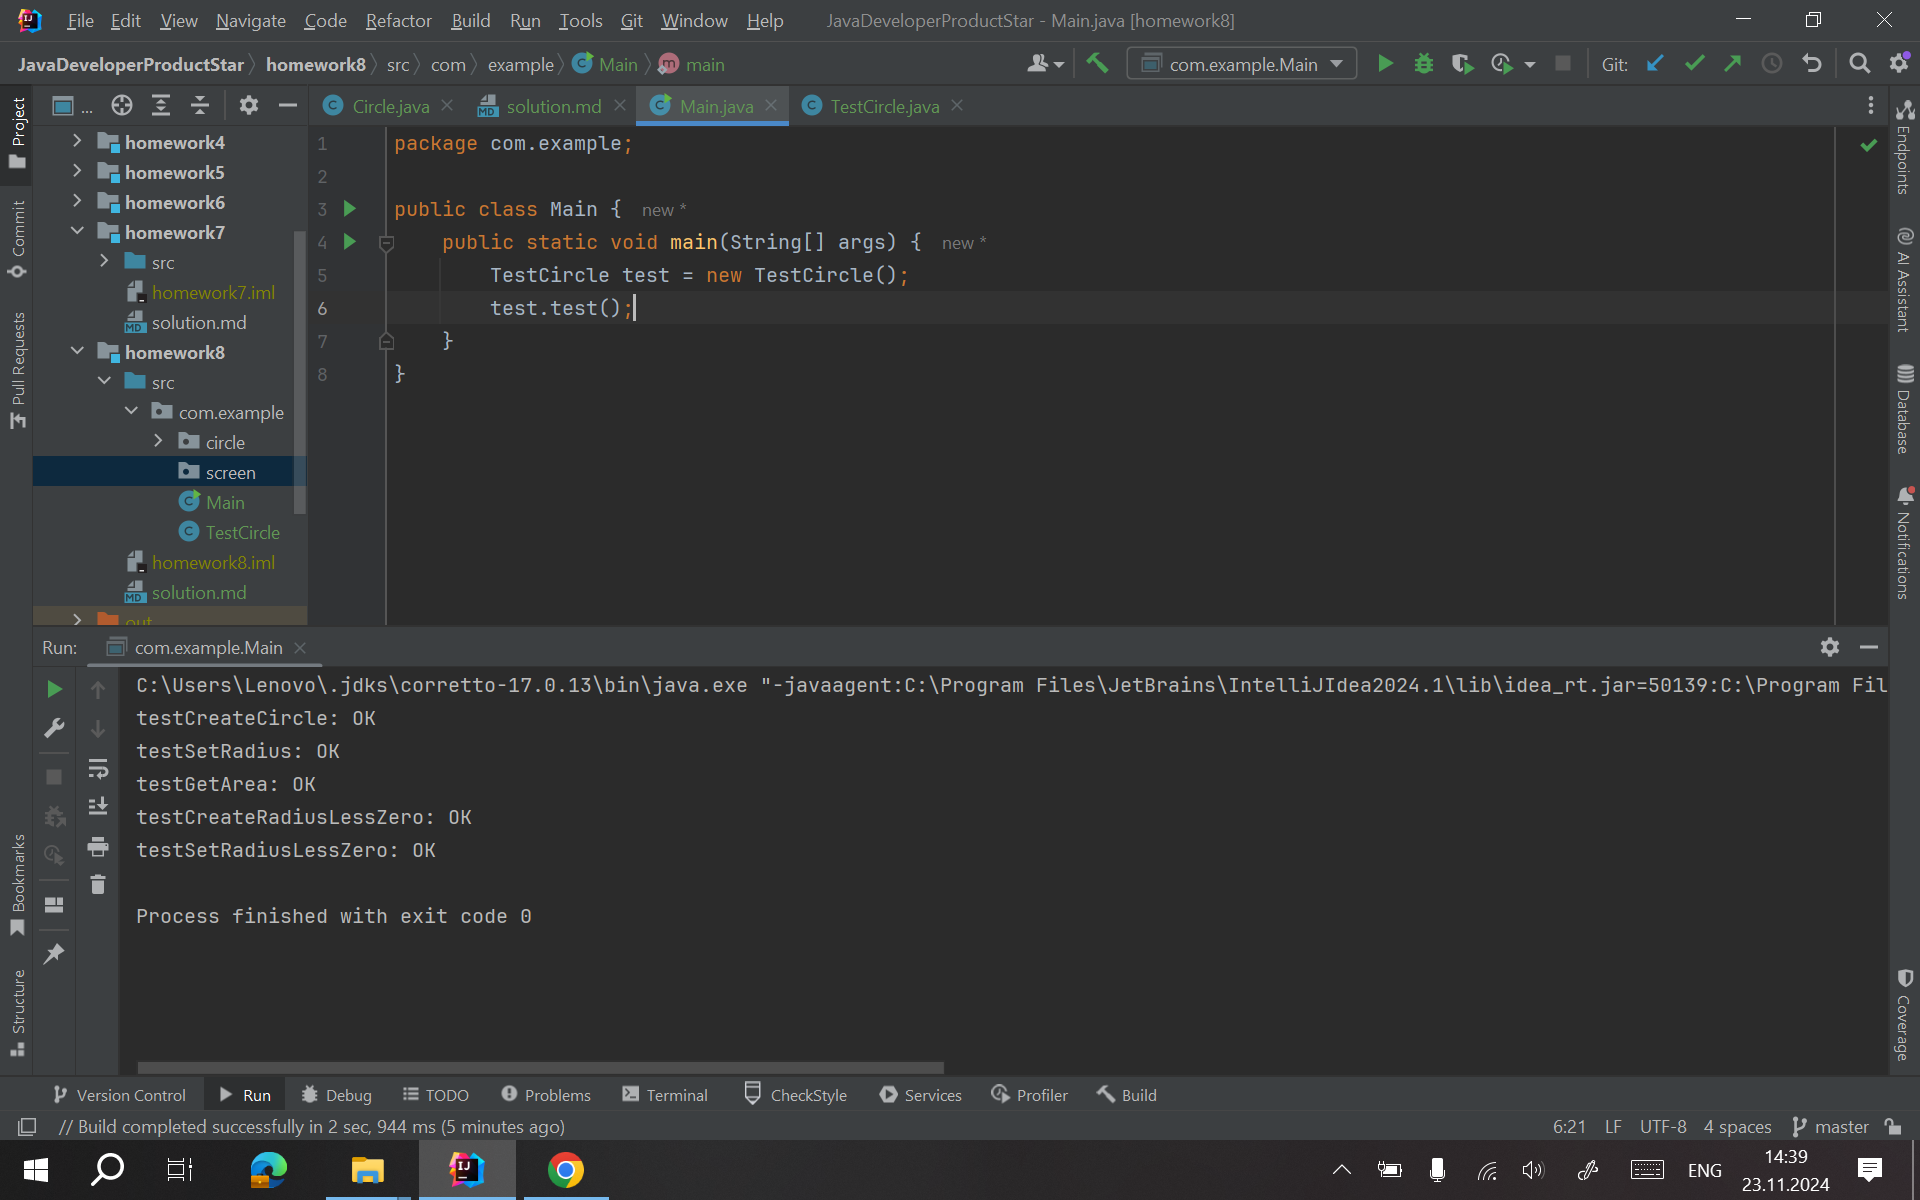
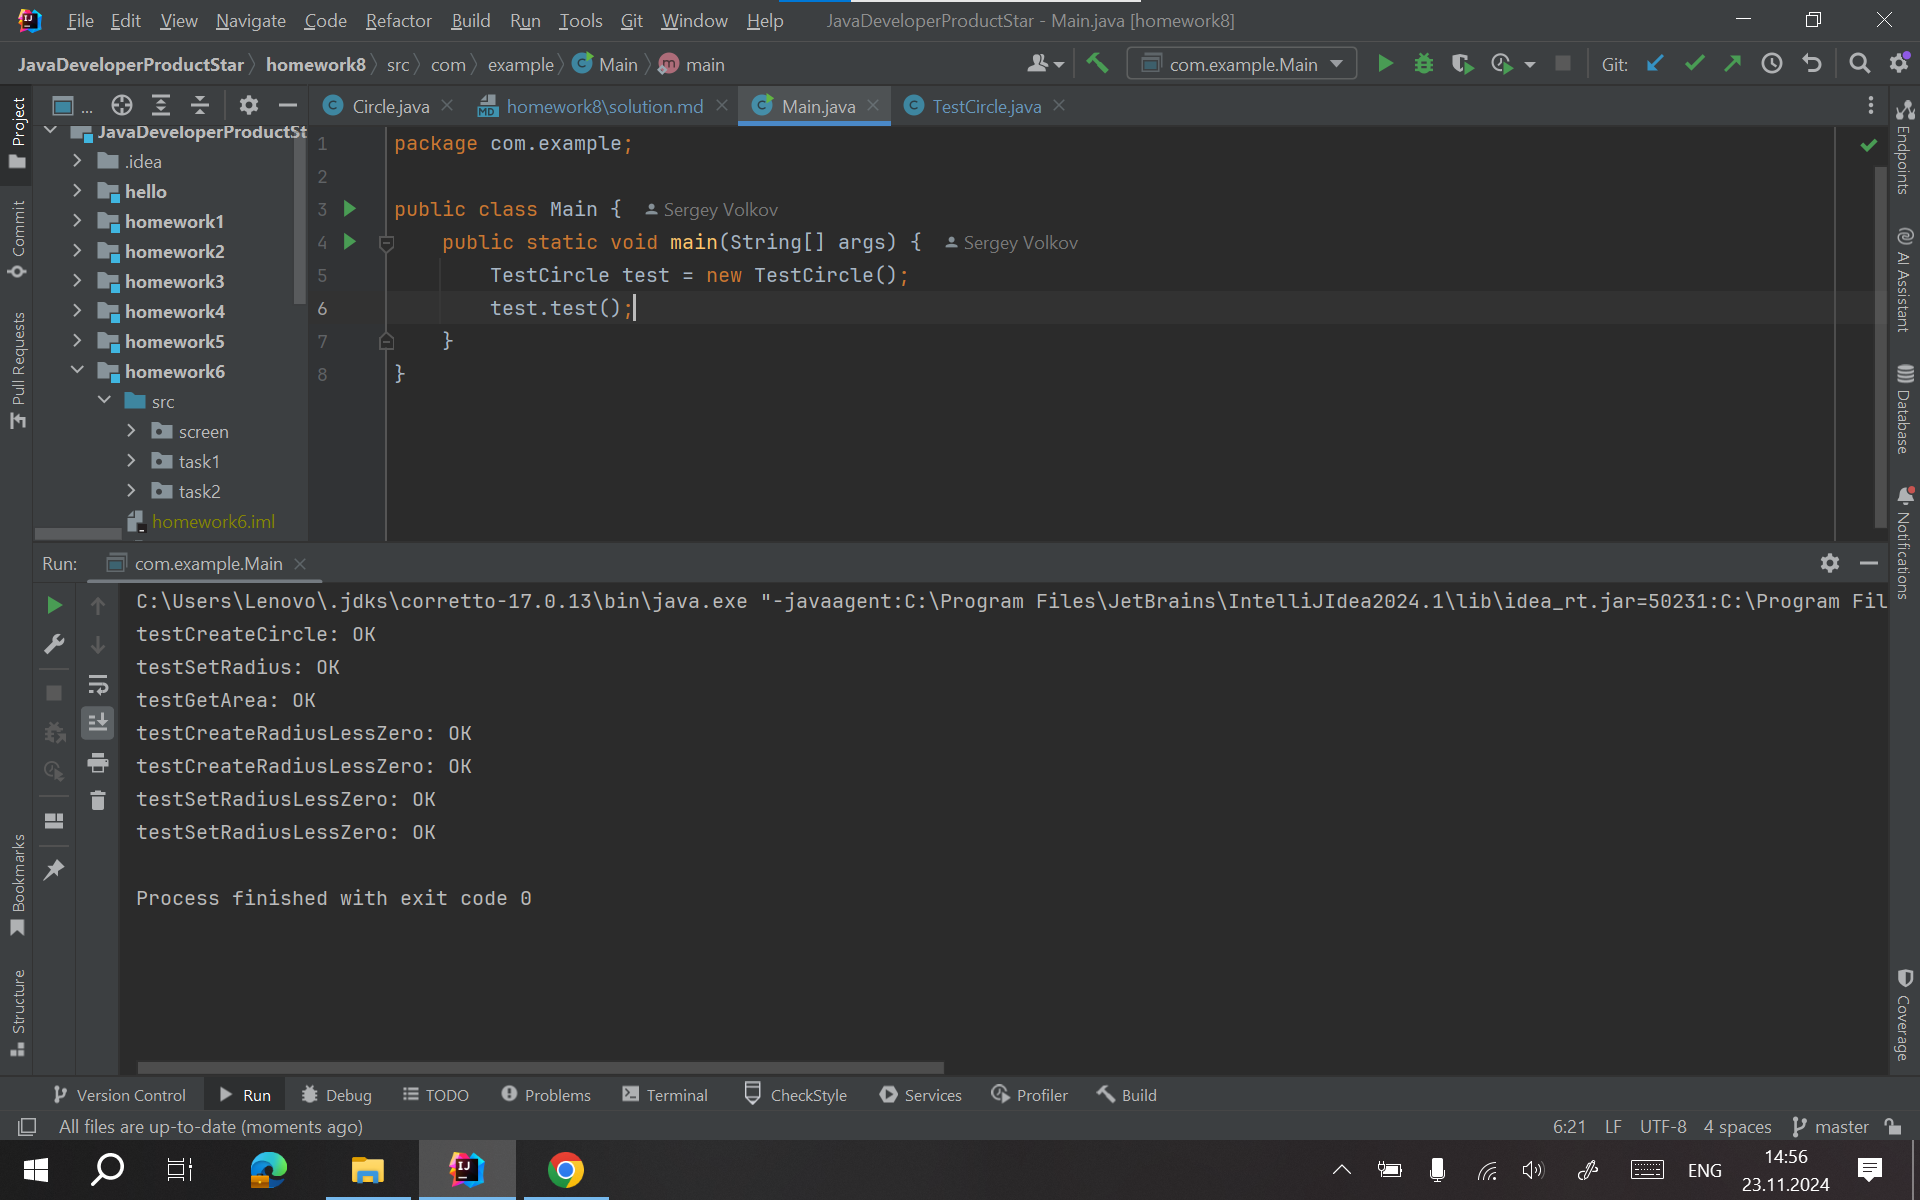
Решение ДЗ№8

diff --git a/homework8/src/com/example/TestCircle.java b/homework8/src/com/example/TestCircle.java
@@ -44,20 +44,27 @@ public class TestCircle {
         }
     }
 
-    private void testCreateRadiusLessZero() {
+    private void testCreateRadiusLessZero(double radius) {
         try {
-            Circle circle = new Circle(-1);
-            System.out.println("testCreateRadiusLessZero: FAILURE");
+            Circle circle = new Circle(radius);
+            if (radius < 0) {
+                System.out.println("testCreateRadiusLessZero: FAILURE");
+                return;
+            }
+            System.out.println("testCreateRadiusLessZero: OK");
         } catch (RuntimeException e) {
             System.out.println("testCreateRadiusLessZero: OK");
         }
     }
 
-    private void testSetRadiusLessZero() {
+    private void testSetRadiusLessZero(double radius, Circle circle) {
         try {
-            Circle circle = new Circle(1);
-            circle.setRadius(-1);
-            System.out.println("testSetRadiusLessZero: FAILURE");
+            circle.setRadius(radius);
+            if (radius < 0) {
+                System.out.println("testSetRadiusLessZero: FAILURE");
+                return;
+            }
+            System.out.println("testSetRadiusLessZero: OK");
         } catch (RuntimeException e) {
             System.out.println("testSetRadiusLessZero: OK");
         }
@@ -67,7 +74,10 @@ public class TestCircle {
         testCreateCircle();
         testSetRadius();
         testGetArea();
-        testCreateRadiusLessZero();
-        testSetRadiusLessZero();
+        testCreateRadiusLessZero(-1);
+        testCreateRadiusLessZero(1);
+        Circle circle = new Circle(1);
+        testSetRadiusLessZero(-1, circle);
+        testSetRadiusLessZero(1, circle);
     }
 }

diff --git a/README.md b/README.md
@@ -491,3 +491,150 @@ Steer the wheel
 
 Process finished with exit code 0
 ```
+## Домашнее задание №8
+### Методы и поля классов
+Скриншот компиляции и работы программы:
+![Скриншот1](https://github.com/SergeyVolko/JavaDeveloper/blob/master/homework8/src/com/example/screen/%D0%94%D0%97%E2%84%968.png?raw=true)<br><br>
+Исходный код класса Circle:
+```java
+package com.example.circle;
+
+/**
+ * Заполните этот класс в соответсвии с заданием из лекции.
+ */
+public class Circle {
+    private double radius;
+
+    public Circle(double radius) {
+        checkingRadius(radius);
+        this.radius = radius;
+    }
+
+    public double getRadius() {
+        return radius;
+    }
+
+    public void setRadius(double radius) {
+        checkingRadius(radius);
+        this.radius = radius;
+    }
+
+    public double getArea() {
+        return Math.PI * radius * radius;
+    }
+
+    private void checkingRadius(double radius) {
+        if (radius < 0) {
+            throw new RuntimeException("Radius less than zero");
+        }
+    }
+}
+```
+Исходный код класса Main:
+```java
+package com.example;
+
+public class Main {
+    public static void main(String[] args) {
+        TestCircle test = new TestCircle();
+        test.test();
+    }
+}
+```
+Исходный код класса TestCircle:
+```java
+package com.example;
+
+import com.example.circle.Circle;
+
+public class TestCircle {
+
+    private final double EPSILON = 0.00001;
+
+    private boolean compareDouble(double a, double b) {
+        return Math.abs(a - b) < EPSILON;
+    }
+
+    private void testCreateCircle() {
+        Circle circle = new Circle(10);
+        double radius = circle.getRadius();
+        if (compareDouble(radius, 10.0)) {
+            System.out.println("testCreateCircle: OK");
+        } else {
+            System.out.println("testCreateCircle: FAILURE");
+        }
+    }
+
+    private void testSetRadius() {
+        Circle circle = new Circle(1);
+        if (!compareDouble(circle.getRadius(), 1)) {
+            System.out.println("testSetRadius: FAILURE: expected getRadius() = 1, got " + circle.getRadius());
+            return;
+        }
+        circle.setRadius(2.0);
+        if (!compareDouble(circle.getRadius(), 2)) {
+            System.out.println("testSetRadius: FAILURE: expected r = 2, got " + circle.getRadius());
+            return;
+        } else {
+            System.out.println("testSetRadius: OK");
+        }
+    }
+
+    private void testGetArea() {
+        Circle circle = new Circle(2);
+        if (compareDouble(circle.getArea(), Math.PI * 4)) {
+            System.out.println("testGetArea: OK");
+        } else {
+            System.out.println("testGetArea: FAILURE");
+        }
+    }
+
+    private void testCreateRadiusLessZero(double radius) {
+        try {
+            Circle circle = new Circle(radius);
+            if (radius < 0) {
+                System.out.println("testCreateRadiusLessZero: FAILURE");
+                return;
+            }
+            System.out.println("testCreateRadiusLessZero: OK");
+        } catch (RuntimeException e) {
+            System.out.println("testCreateRadiusLessZero: OK");
+        }
+    }
+
+    private void testSetRadiusLessZero(double radius, Circle circle) {
+        try {
+            circle.setRadius(radius);
+            if (radius < 0) {
+                System.out.println("testSetRadiusLessZero: FAILURE");
+                return;
+            }
+            System.out.println("testSetRadiusLessZero: OK");
+        } catch (RuntimeException e) {
+            System.out.println("testSetRadiusLessZero: OK");
+        }
+    }
+
+    public void test() {
+        testCreateCircle();
+        testSetRadius();
+        testGetArea();
+        testCreateRadiusLessZero(-1);
+        testCreateRadiusLessZero(1);
+        Circle circle = new Circle(1);
+        testSetRadiusLessZero(-1, circle);
+        testSetRadiusLessZero(1, circle);
+    }
+}
+```
+Вывод в консоль:
+```
+C:\Users\Lenovo\.jdks\corretto-17.0.13\bin\java.exe "-javaagent:C:\Program Files\JetBrains\IntelliJIdea2024.1\lib\idea_rt.jar=50139:C:\Program Files\JetBrains\IntelliJIdea2024.1\bin" -Dfile.encoding=UTF-8 -classpath C:\Users\Lenovo\IdeaProjects\JavaDeveloperProductStar\out\production\homework8 com.example.Main
+testCreateCircle: OK
+testSetRadius: OK
+testGetArea: OK
+testCreateRadiusLessZero: OK
+testSetRadiusLessZero: OK
+
+Process finished with exit code 0
+```

diff --git a/homework8/solution.md b/homework8/solution.md
@@ -1,5 +1,7 @@
 # Домашнее задание №8
 ## Методы и поля классов
+Скриншот компиляции и работы программы:
+![Скриншот1](https://github.com/SergeyVolko/JavaDeveloper/blob/master/homework8/src/com/example/screen/%D0%94%D0%97%E2%84%968.png?raw=true)<br><br>
 Исходный код класса Circle:
 ```java
 package com.example.circle;
@@ -94,20 +96,27 @@ public class TestCircle {
         }
     }
 
-    private void testCreateRadiusLessZero() {
+    private void testCreateRadiusLessZero(double radius) {
         try {
-            Circle circle = new Circle(-1);
-            System.out.println("testCreateRadiusLessZero: FAILURE");
+            Circle circle = new Circle(radius);
+            if (radius < 0) {
+                System.out.println("testCreateRadiusLessZero: FAILURE");
+                return;
+            }
+            System.out.println("testCreateRadiusLessZero: OK");
         } catch (RuntimeException e) {
             System.out.println("testCreateRadiusLessZero: OK");
         }
     }
 
-    private void testSetRadiusLessZero() {
+    private void testSetRadiusLessZero(double radius, Circle circle) {
         try {
-            Circle circle = new Circle(1);
-            circle.setRadius(-1);
-            System.out.println("testSetRadiusLessZero: FAILURE");
+            circle.setRadius(radius);
+            if (radius < 0) {
+                System.out.println("testSetRadiusLessZero: FAILURE");
+                return;
+            }
+            System.out.println("testSetRadiusLessZero: OK");
         } catch (RuntimeException e) {
             System.out.println("testSetRadiusLessZero: OK");
         }
@@ -117,8 +126,11 @@ public class TestCircle {
         testCreateCircle();
         testSetRadius();
         testGetArea();
-        testCreateRadiusLessZero();
-        testSetRadiusLessZero();
+        testCreateRadiusLessZero(-1);
+        testCreateRadiusLessZero(1);
+        Circle circle = new Circle(1);
+        testSetRadiusLessZero(-1, circle);
+        testSetRadiusLessZero(1, circle);
     }
 }
 ```
